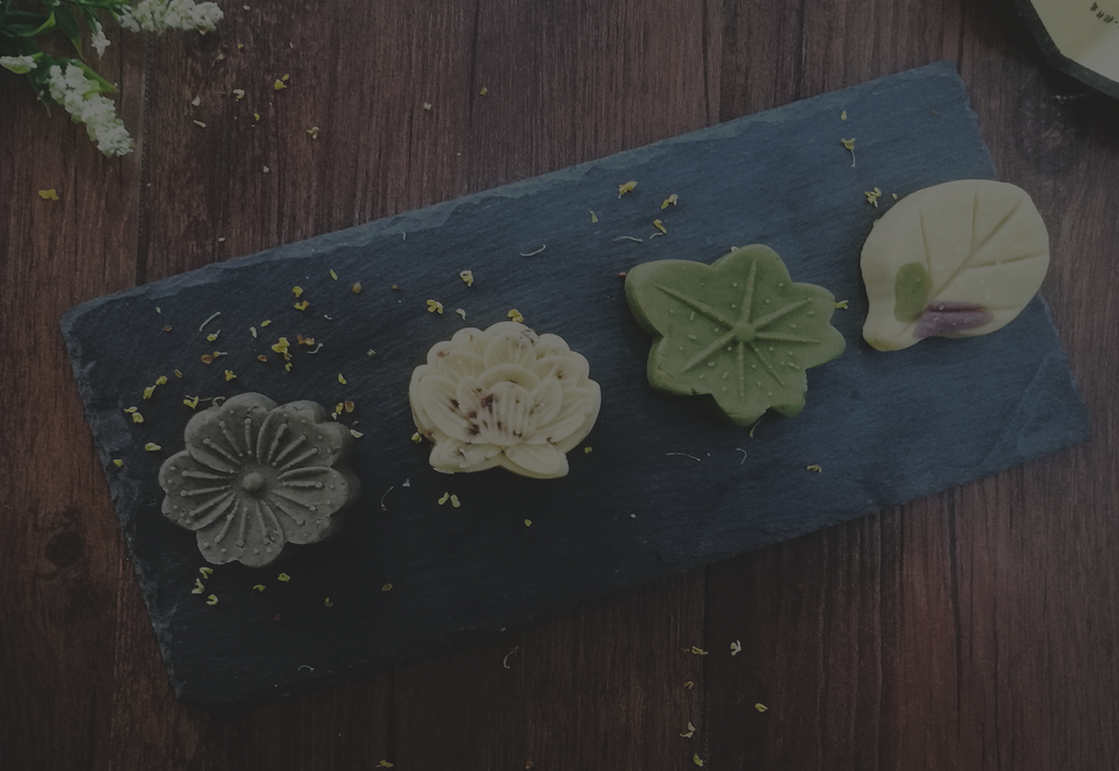
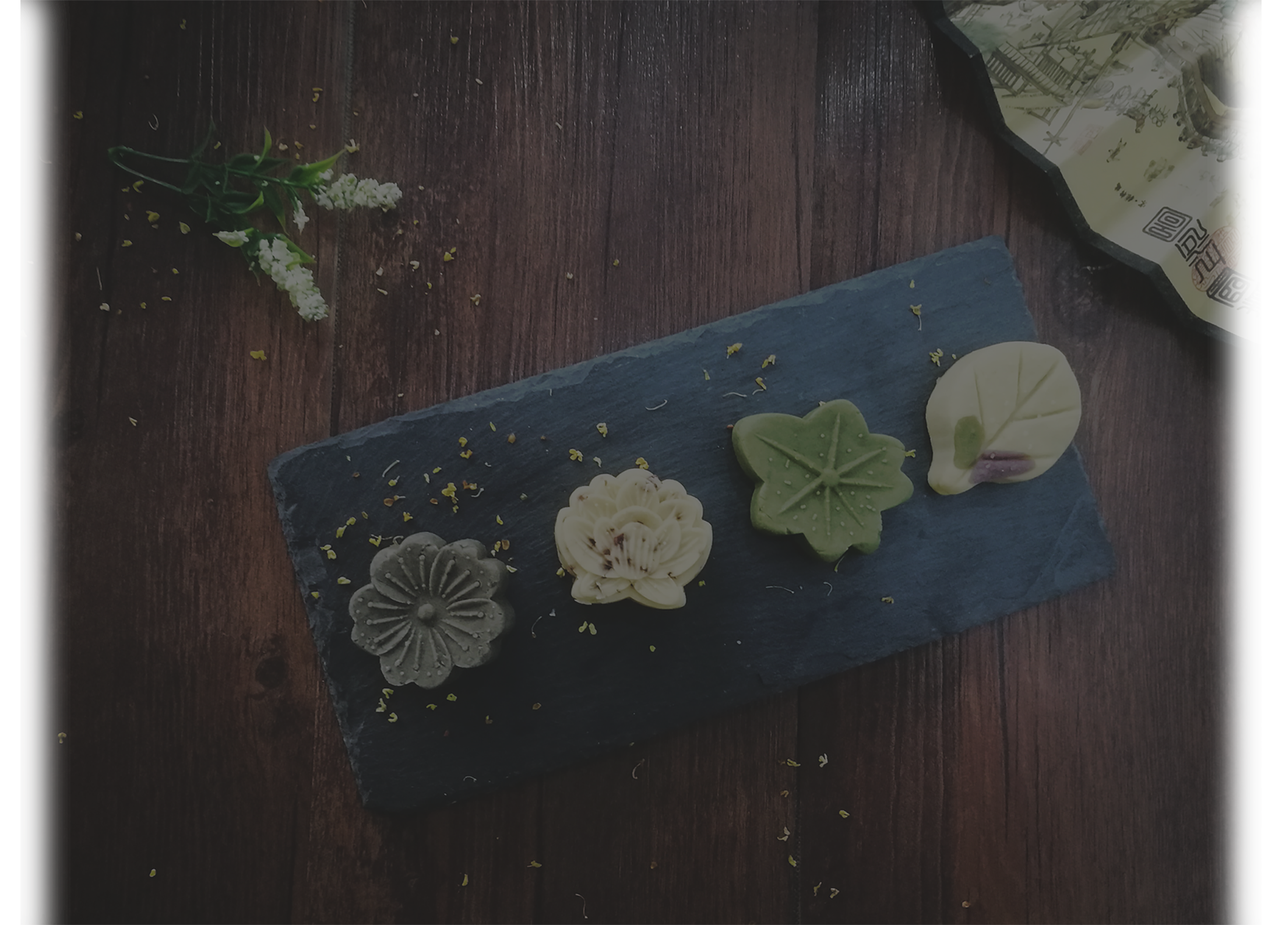
update this code

diff --git a/src/components/homepage/TeaState.vue b/src/components/homepage/TeaState.vue
@@ -33,7 +33,10 @@
 
 <style lang="scss">
 .state-container{
-  background-image: url(https://timgsa.baidu.com/timg?image&quality=80&size=b9999_10000&sec=1526405507178&di=6bb6f14a042f490b6201074140b14f12&imgtype=0&src=http%3A%2F%2Fimg.zcool.cn%2Fcommunity%2F01702e568643f66ac7251bb6e5d788.jpg%401280w_1l_2o_100sh.jpg);
+  background:url("../../assets/DT-background.png");
+  background-repeat:no-repeat;
+  background-position:center;
+  background-color: #23201f;
   width: 100%;
   height: 800px;
   display: flex;

diff --git a/src/components/homepage/CompanyProfile.vue b/src/components/homepage/CompanyProfile.vue
@@ -71,7 +71,10 @@ p{
   justify-content: center;
 
   height: 1000px;
-  background:url(../../assets/cp-background.png);
+  background:url("../../assets/cp-background.png");
+  background-repeat:no-repeat;
+  background-position:center;
+  background-color: #2f1b23;
 }
 
 .story{
